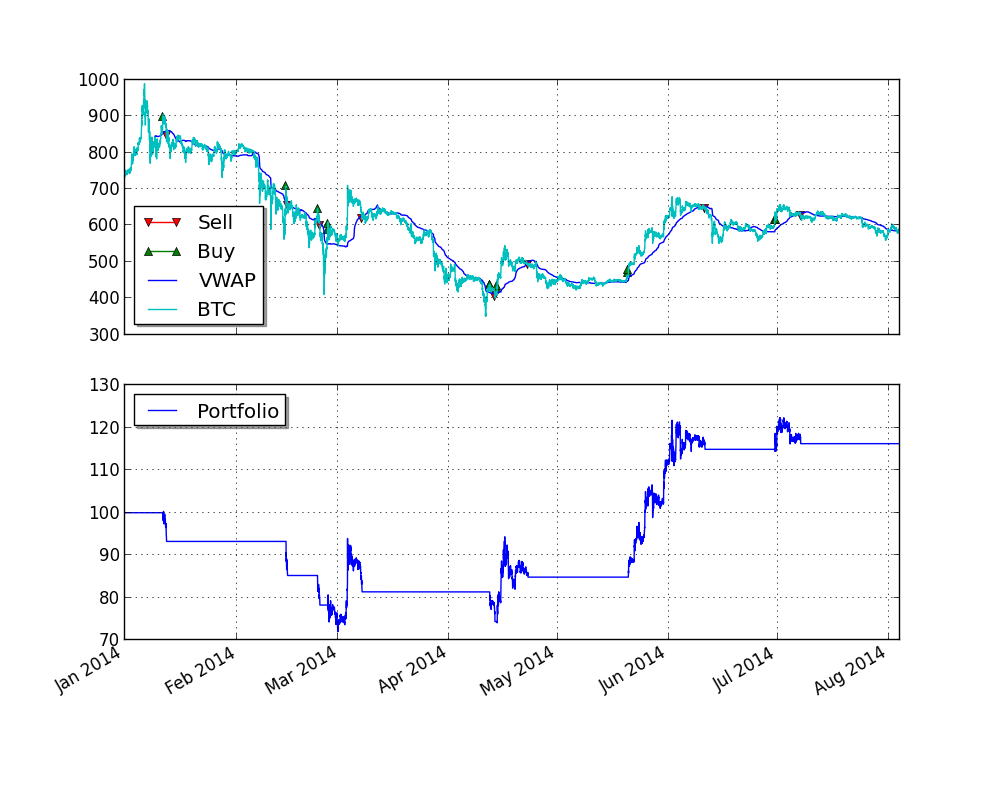
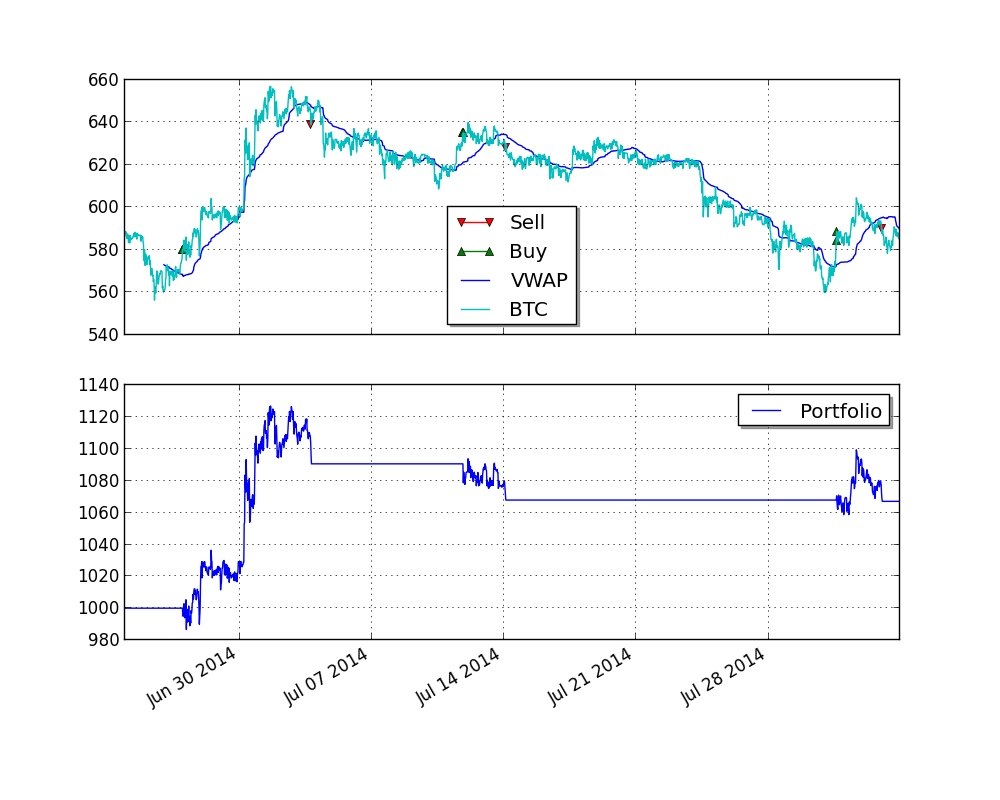
Bug fixed. Bitstamp backtesting broker was allowing trades below $5.

diff --git a/testcases/bitstamp_test.py b/testcases/bitstamp_test.py
@@ -32,6 +32,7 @@ from pyalgotrade.bitstamp import broker
 from pyalgotrade.bitstamp import wsclient
 from pyalgotrade.bitstamp import httpclient
 from pyalgotrade.bitstamp import common
+from pyalgotrade.bitcoincharts import barfeed as btcbarfeed
 from pyalgotrade import strategy
 from pyalgotrade import dispatcher
 
@@ -231,6 +232,46 @@ class InstrumentTraitsTestCase(tc_common.TestCase):
         self.assertEquals(traits.roundQuantity(0.004413764), 0.00441376)
 
 
+class BacktestingTestCase(tc_common.TestCase):
+    def testBitcoinChartsFeed(self):
+
+        class TestStrategy(strategy.BaseStrategy):
+            def __init__(self, feed, brk):
+                strategy.BaseStrategy.__init__(self, feed, brk)
+                self.pos = None
+
+            def onBars(self, bars):
+                if not self.pos:
+                    self.pos = self.enterLongLimit("BTC", 5.83, 1, True)
+
+        barFeed = btcbarfeed.CSVTradeFeed()
+        barFeed.addBarsFromCSV(tc_common.get_data_file_path("bitstampUSD.csv"))
+        brk = broker.BacktestingBroker(100, barFeed)
+        strat = TestStrategy(barFeed, brk)
+        strat.run()
+        self.assertEquals(strat.pos.getShares(), 1)
+        self.assertEquals(strat.pos.entryActive(), False)
+        self.assertEquals(strat.pos.isOpen(), True)
+        self.assertEquals(strat.pos.getEntryOrder().getAvgFillPrice(), 5.83)
+
+    def testMinTrade(self):
+        class TestStrategy(strategy.BaseStrategy):
+            def __init__(self, feed, brk):
+                strategy.BaseStrategy.__init__(self, feed, brk)
+                self.pos = None
+
+            def onBars(self, bars):
+                if not self.pos:
+                    self.pos = self.enterLongLimit("BTC", 4.99, 1, True)
+
+        barFeed = btcbarfeed.CSVTradeFeed()
+        barFeed.addBarsFromCSV(tc_common.get_data_file_path("bitstampUSD.csv"))
+        brk = broker.BacktestingBroker(100, barFeed)
+        strat = TestStrategy(barFeed, brk)
+        with self.assertRaisesRegexp(Exception, "Trade must be >= 5"):
+            strat.run()
+
+
 class PaperTradingTestCase(tc_common.TestCase):
     def testBuyWithPartialFill(self):
 
@@ -332,24 +373,24 @@ class PaperTradingTestCase(tc_common.TestCase):
 
             def onBars(self, bars):
                 if self.pos is None:
-                    self.pos = self.enterLongLimit("BTC", 100, 0.01, True)
+                    self.pos = self.enterLongLimit("BTC", 1000, 0.01, True)
                 elif self.pos.entryFilled() and not self.pos.getExitOrder():
-                    self.pos.exitLimit(100, True)
+                    self.pos.exitLimit(1000, True)
 
         barFeed = TestingLiveTradeFeed()
-        barFeed.addTrade(datetime.datetime(2000, 1, 1), 1, 100, 1)
-        barFeed.addTrade(datetime.datetime(2000, 1, 2), 1, 100, 0.01)
-        barFeed.addTrade(datetime.datetime(2000, 1, 3), 1, 100, 0.00441376)
-        barFeed.addTrade(datetime.datetime(2000, 1, 4), 1, 100, 0.00445547)
-        barFeed.addTrade(datetime.datetime(2000, 1, 5), 1, 100, 0.00113077)
+        barFeed.addTrade(datetime.datetime(2000, 1, 1), 1, 1000, 1)
+        barFeed.addTrade(datetime.datetime(2000, 1, 2), 1, 1000, 0.01)
+        barFeed.addTrade(datetime.datetime(2000, 1, 3), 1, 1000, 0.00441376)
+        barFeed.addTrade(datetime.datetime(2000, 1, 4), 1, 1000, 0.00445547)
+        barFeed.addTrade(datetime.datetime(2000, 1, 5), 1, 1000, 0.00113077)
 
         brk = broker.PaperTradingBroker(1000, barFeed)
         strat = Strategy(barFeed, brk)
         strat.run()
 
         self.assertEquals(brk.getShares("BTC"), 0)
-        self.assertEquals(strat.pos.getEntryOrder().getAvgFillPrice(), 100)
-        self.assertEquals(strat.pos.getExitOrder().getAvgFillPrice(), 100)
+        self.assertEquals(strat.pos.getEntryOrder().getAvgFillPrice(), 1000)
+        self.assertEquals(strat.pos.getExitOrder().getAvgFillPrice(), 1000)
         self.assertEquals(strat.pos.getEntryOrder().getFilled(), 0.01)
         self.assertEquals(strat.pos.getExitOrder().getFilled(), 0.01)
         self.assertEquals(strat.pos.getEntryOrder().getRemaining(), 0)

diff --git a/samples/bccharts_example_2.py b/samples/bccharts_example_2.py
@@ -8,6 +8,8 @@ from pyalgotrade import broker as basebroker
 
 
 class VWAPMomentum(strategy.BacktestingStrategy):
+    MIN_TRADE = 5
+
     def __init__(self, feed, brk, instrument, vwapWindowSize, buyThreshold, sellThreshold):
         strategy.BacktestingStrategy.__init__(self, feed, brk)
         self.__instrument = instrument
@@ -34,7 +36,7 @@ class VWAPMomentum(strategy.BacktestingStrategy):
         brk = self.getBroker()
         cashAvail = brk.getCash() * 0.98
         size = round(cashAvail / price, 3)
-        if len(buyOrders) == 0 and size > 0:
+        if len(buyOrders) == 0 and price*size > VWAPMomentum.MIN_TRADE:
             self.info("Buy %s at %s" % (size, price))
             try:
                 self.limitOrder(self.__instrument, price, size)
@@ -80,9 +82,9 @@ class VWAPMomentum(strategy.BacktestingStrategy):
 
 def main(plot):
     instrument = "BTC"
-    initialCash = 100
-    vwapWindowSize = 400
-    buyThreshold = 0.05
+    initialCash = 1000
+    vwapWindowSize = 100
+    buyThreshold = 0.02
     sellThreshold = 0.01
 
     barFeed = csvfeed.GenericBarFeed(bar.Frequency.MINUTE*30)

diff --git a/testcases/common.py b/testcases/common.py
@@ -113,12 +113,6 @@ def load_test_csv(path):
     return inputSeq, expectedSeq
 
 
-def normalize_value(value, decimals):
-    if value is not None:
-        value = round(value, decimals)
-    return value
-
-
 def get_data_file_path(fileName):
     return os.path.join(os.path.split(__file__)[0], "data", fileName)
 
@@ -129,8 +123,8 @@ def test_from_csv(testcase, filename, filterClassBuilder, roundDecimals=2, maxLe
     filterDS = filterClassBuilder(inputDS)
     for i in xrange(len(inputValues)):
         inputDS.append(inputValues[i])
-        value = normalize_value(filterDS[i], roundDecimals)
-        expectedValue = normalize_value(expectedValues[i], roundDecimals)
+        value = safe_round(filterDS[i], roundDecimals)
+        expectedValue = safe_round(expectedValues[i], roundDecimals)
         testcase.assertEqual(value, expectedValue)
 
 

diff --git a/pyalgotrade/bitstamp/broker.py b/pyalgotrade/bitstamp/broker.py
@@ -32,6 +32,8 @@ LiveBroker = livebroker.LiveBroker
 
 
 class BacktestingBroker(backtesting.Broker):
+    MIN_TRADE_USD = 5
+
     """A Bitstamp backtesting broker.
 
     :param cash: The initial amount of cash.
@@ -73,6 +75,9 @@ class BacktestingBroker(backtesting.Broker):
             action = broker.Order.Action.BUY
         elif action == broker.Order.Action.SELL_SHORT:
             action = broker.Order.Action.SELL
+
+        if limitPrice * quantity < BacktestingBroker.MIN_TRADE_USD:
+            raise Exception("Trade must be >= %s" % (BacktestingBroker.MIN_TRADE_USD))
 
         if action == broker.Order.Action.BUY:
             # Check that there is enough cash.
